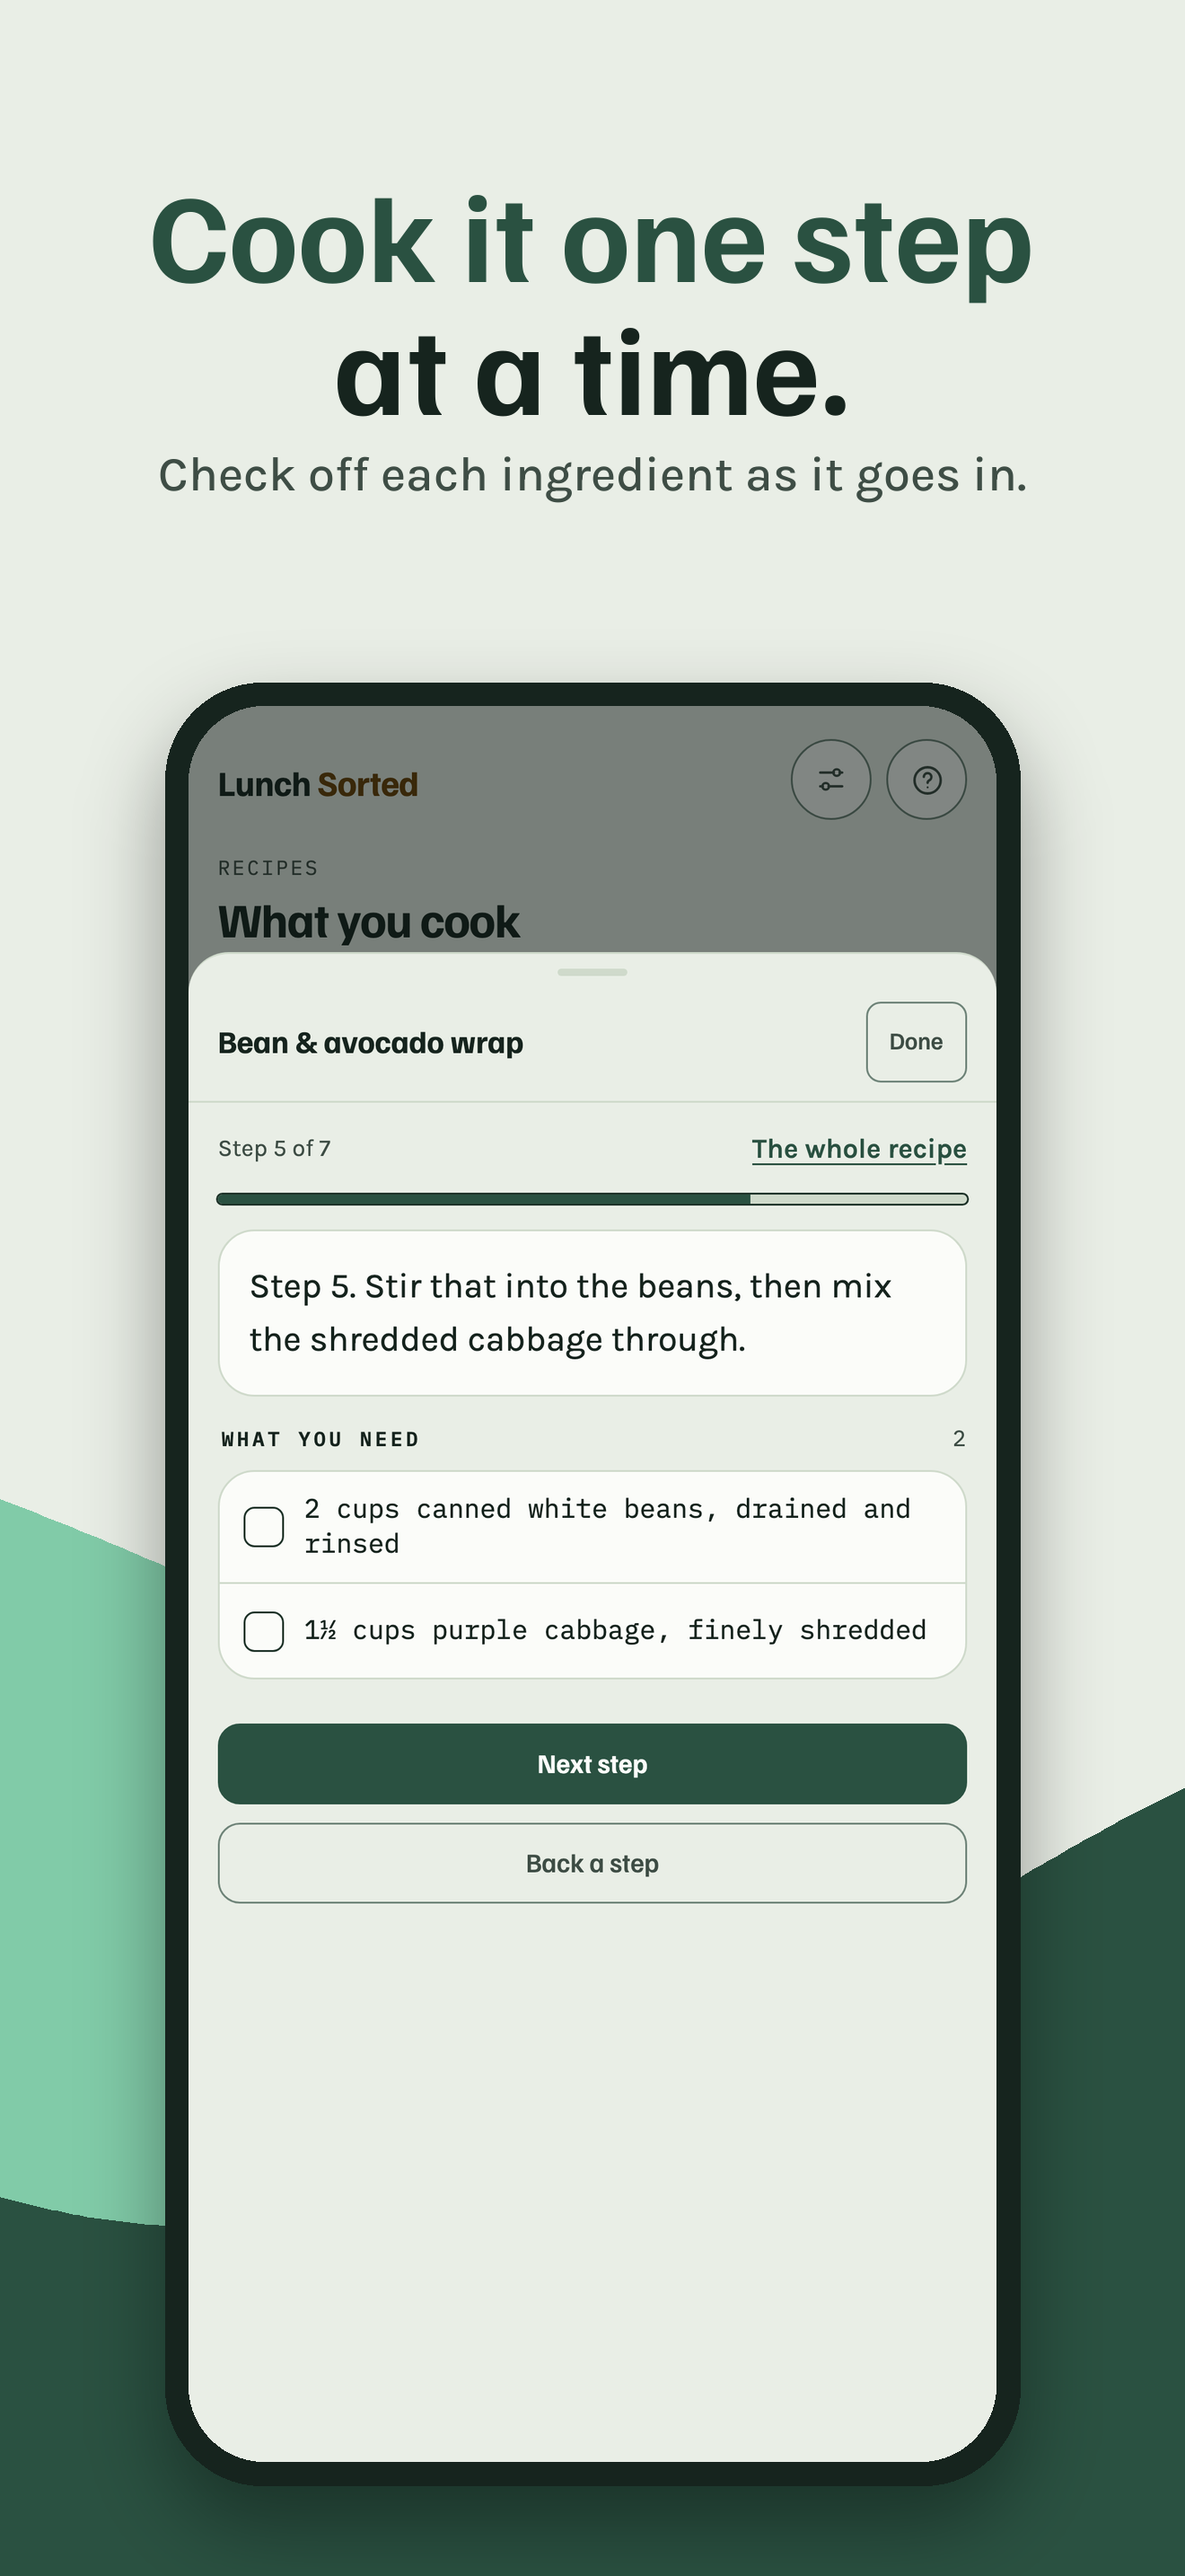
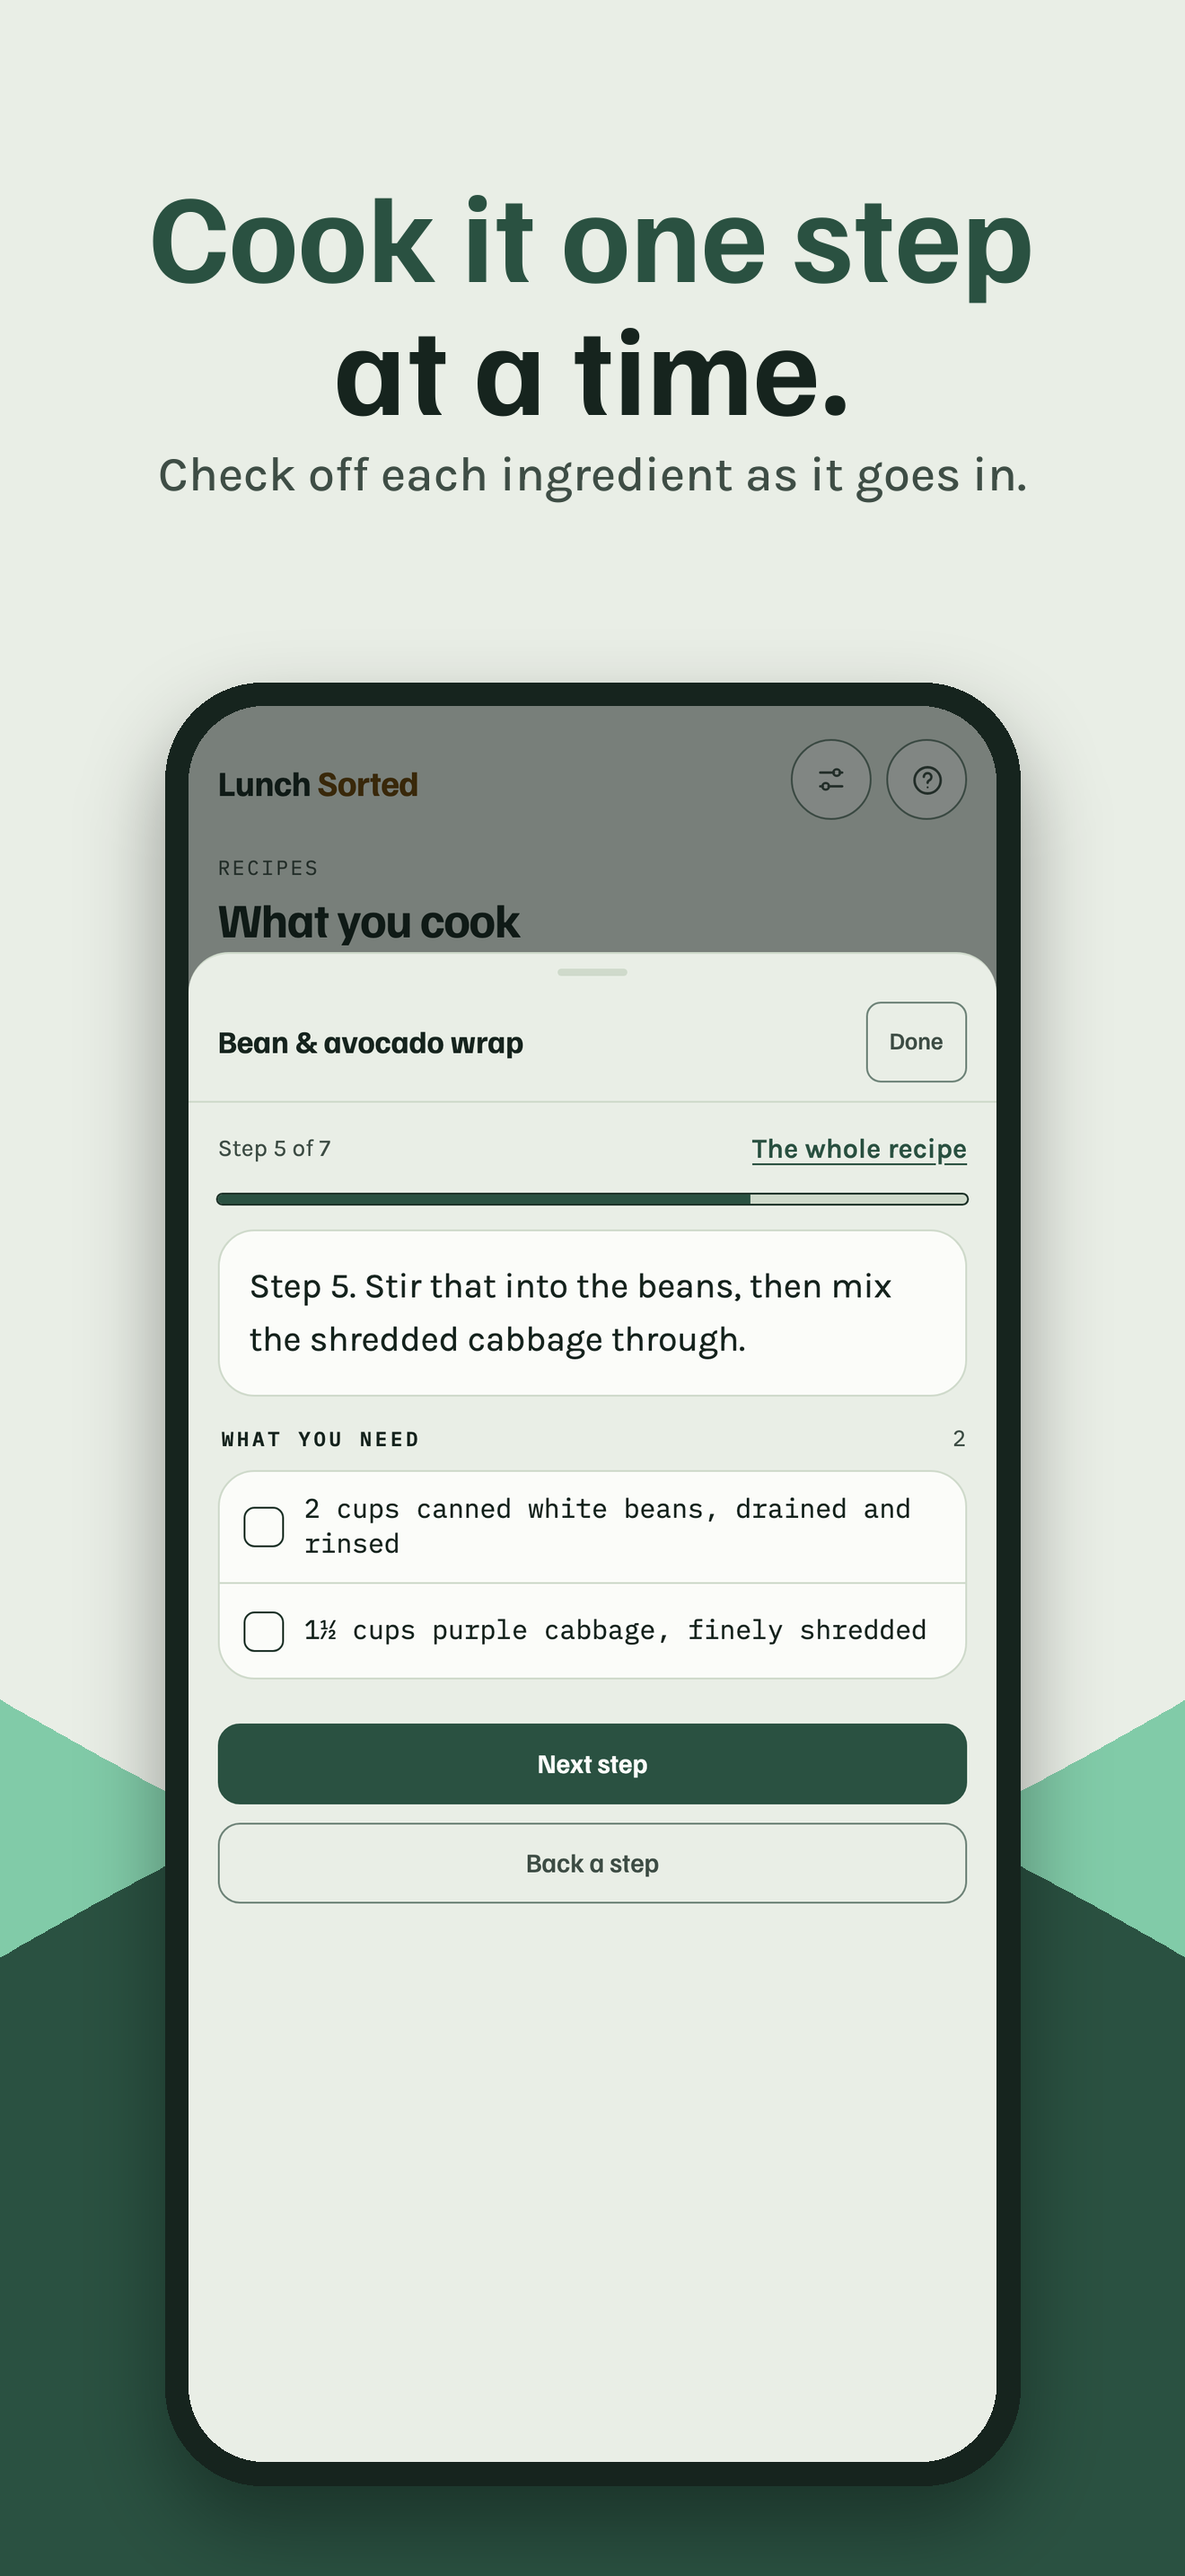
Store: the two waves share one wavelength, half a cycle apart, and alternate frame by frame

Changed region(s): [[0.0, 0.5586, 0.1553, 0.8689], [0.8386, 0.6517, 1.0, 0.7758]]

diff --git a/scripts/store-compose.py b/scripts/store-compose.py
@@ -95,8 +95,10 @@ if missing: raise SystemExit('missing raw captures: ' + ', '.join(missing))
 
 N = len(SHOTS)
 strip = Image.new('RGB', (W * N, H), GROUND)
-wave(strip, MINT, H * 0.64, 280, W * 2.9, 1.1)      # the lighter wave, higher
-wave(strip, MAIN, H * 0.76, 300, W * 2.3, 0.0)      # the green band
+# One wavelength is two frames, so the crest and the trough alternate frame by frame; the two
+# waves share it, half a cycle apart, so the lighter one shows where the green dips.
+wave(strip, MINT, H * 0.66, 240, W * 2, math.pi)
+wave(strip, MAIN, H * 0.76, 240, W * 2, 0.0)
 for i, (raw, name, head, sub) in enumerate(SHOTS):
     caption(strip, i * W, head, sub)
     layer = phone(raw)
